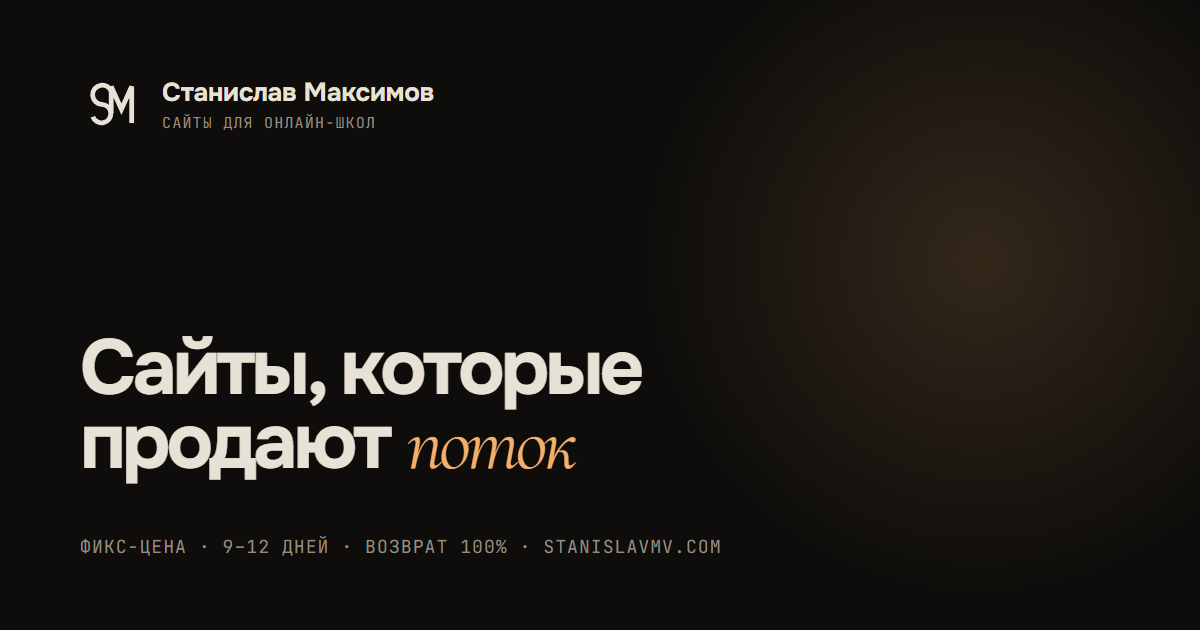
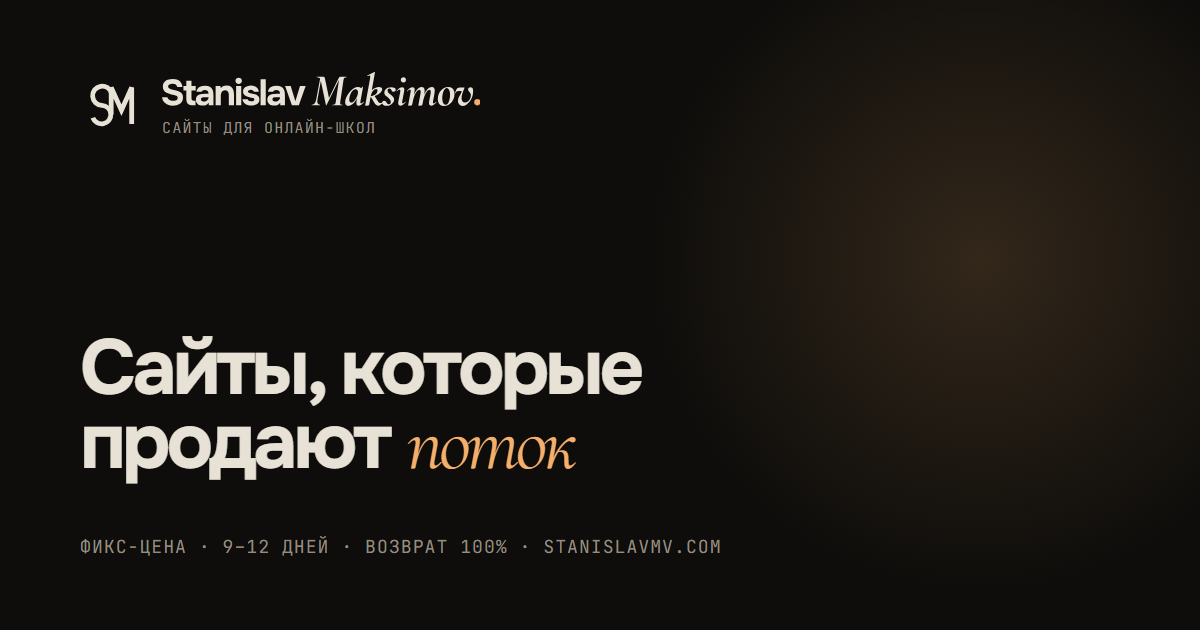
Логотип-надпись Stanislav Maksimov в шапке и OG-обложке
Гротеск Onest + курсив Cormorant + янтарная точка, буквы переведены в контуры.

Changed region(s): [[0.1233, 0.1206, 0.4008, 0.2111], [0.0617, 0.181, 0.0925, 0.2111]]

diff --git a/index.html b/index.html
@@ -87,7 +87,9 @@
     .logo{display:flex;align-items:center;gap:12px;font-weight:600;letter-spacing:-.01em;white-space:nowrap}
     .logo__mark{width:36px;height:36px;flex:none;color:var(--ink);transition:color .3s}
     .logo:hover .logo__mark{color:var(--acc)}
-    @media (max-width:400px){.logo{font-size:15px;gap:10px}.logo__mark{width:32px;height:32px}.burger{padding:0 14px}.burger>span{display:none}}
+    .logo__word{height:19px;width:auto;flex:none;color:var(--ink);display:block}
+    .logo__dot{fill:var(--acc)}
+    @media (max-width:400px){.logo{gap:10px}.logo__mark{width:32px;height:32px}.logo__word{height:15px}.burger{padding:0 14px}.burger>span{display:none}}
     .nav{display:flex;gap:30px}
     .nav a{position:relative;font-size:15px;color:var(--mute);transition:color .3s}
     .nav a::after{content:"";position:absolute;left:0;right:0;bottom:-4px;height:1px;background:var(--acc);transform:scaleX(0);transform-origin:right;transition:transform .5s var(--ease)}
@@ -445,7 +447,7 @@
     <div class="wrap hdr__row">
       <a href="#top" class="logo" aria-label="Станислав Максимов — на главную">
         <svg class="logo__mark" viewBox="0 0 100 100" aria-hidden="true"><g fill="none" stroke="currentColor" stroke-width="7.5" stroke-linecap="butt" stroke-linejoin="miter" stroke-miterlimit="4" transform="translate(1.25 1)"><path d="M47.9 30.4A15 15 0 1 0 33 49.5A14.5 14.5 0 1 1 18.8 68.9"/><path d="M47.5 64V21.5L63.5 57L79.5 21.5V78.5"/></g></svg>
-        <span>Станислав Максимов</span>
+        <svg class="logo__word" viewBox="4.5 -90.44 863.5 92.18" aria-hidden="true"><path fill="currentColor" d="M34.20 0.80L34.20 0.80Q26.80 0.80 20.45-1.50Q14.10-3.80 9.85-8.80Q5.60-13.80 4.50-21.70L4.50-21.70L19.10-21.70Q20-18.30 22.40-16.25Q24.80-14.20 28.15-13.30Q31.50-12.40 35.20-12.40L35.20-12.40Q38-12.40 40.70-13.10Q43.40-13.80 45.15-15.50Q46.90-17.20 46.90-20.10L46.90-20.10Q46.90-22.30 45.95-23.70Q45-25.10 43.25-25.95Q41.50-26.80 39-27.50L39-27.50Q36.90-28.10 34.65-28.50Q32.40-28.90 30.25-29.50Q28.10-30.10 26.10-30.90L26.10-30.90Q22.30-31.90 18.80-33.35Q15.30-34.80 12.60-37.05Q9.90-39.30 8.35-42.70Q6.80-46.10 6.80-50.90L6.80-50.90Q6.80-56.10 8.55-59.70Q10.30-63.30 13.25-65.65Q16.20-68 19.85-69.30Q23.50-70.60 27.20-71.10Q30.90-71.60 34.20-71.60L34.20-71.60Q41.10-71.60 46.60-69.20Q52.10-66.80 55.60-62Q59.10-57.20 59.60-49.90L59.60-49.90L45.70-49.90Q45.30-52.90 43.50-54.80Q41.70-56.70 38.95-57.60Q36.20-58.50 32.80-58.50L32.80-58.50Q30.60-58.50 28.50-58.10Q26.40-57.70 24.75-56.85Q23.10-56 22.15-54.60Q21.20-53.20 21.20-51.20L21.20-51.20Q21.20-49.20 22.30-47.75Q23.40-46.30 25.55-45.25Q27.70-44.20 30.60-43.30L30.60-43.30Q33.60-42.30 36.90-41.70Q40.20-41.10 43.20-40.10L43.20-40.10Q47-39.10 50.30-37.75Q53.60-36.40 56.10-34.35Q58.60-32.30 60-29.15Q61.40-26 61.40-21.40L61.40-21.40Q61.40-15.30 59.15-11.05Q56.90-6.80 53.05-4.20Q49.20-1.60 44.30-0.40Q39.40 0.80 34.20 0.80ZM95.40 0L89.50 0Q82.90 0 78.70-1.60Q74.50-3.20 72.45-7.05Q70.40-10.90 70.40-17.60L70.40-17.60L70.40-40.20L62.60-40.20L62.60-52.70L70.40-52.70L70.40-66.80L84.40-66.80L84.40-52.70L95.90-52.70L95.90-40.20L84.40-40.20L84.40-19.60Q84.40-16.30 85.60-14.40Q86.80-12.50 91-12.50L91-12.50L95.40-12.50L95.40 0ZM114.80 0.70L114.80 0.70Q111.20 0.70 107.85-0.25Q104.50-1.20 101.90-3.20Q99.30-5.20 97.80-8.20Q96.30-11.20 96.30-15.20L96.30-15.20Q96.30-20.60 98.50-23.85Q100.70-27.10 104.40-28.80Q108.10-30.50 112.95-31.10Q117.80-31.70 123-31.70L123-31.70L130.60-31.70Q130.60-34.60 129.55-36.85Q128.50-39.10 126.40-40.35Q124.30-41.60 121-41.60L121-41.60Q118.90-41.60 117-41.05Q115.10-40.50 113.80-39.50Q112.50-38.50 112.10-36.90L112.10-36.90L97.90-36.90Q98.50-41.30 100.70-44.45Q102.90-47.60 106.15-49.60Q109.40-51.60 113.35-52.55Q117.30-53.50 121.50-53.50L121.50-53.50Q129.20-53.50 134.15-50.60Q139.10-47.70 141.55-42.10Q144-36.50 144-28.40L144-28.40L144 0L131.40 0L131.20-6.80Q128.70-3.30 125.55-1.70Q122.40-0.10 119.50 0.30Q116.60 0.70 114.80 0.70ZM118-10.40L118-10.40Q121.50-10.40 124.40-11.80Q127.30-13.20 129-15.60Q130.70-18 130.70-21L130.70-21L130.70-22.30L119-22.30Q117.50-22.30 115.95-22.05Q114.40-21.80 113.10-21.20Q111.80-20.60 111-19.50Q110.20-18.40 110.20-16.40L110.20-16.40Q110.20-14.40 111.25-13.05Q112.30-11.70 114.10-11.05Q115.90-10.40 118-10.40ZM163.90 0L149.90 0L149.90-52.70L163-52.70L163.70-46.60Q165.90-49.30 168.75-50.85Q171.60-52.40 174.55-53Q177.50-53.60 179.90-53.60L179.90-53.60Q187.50-53.60 191.75-50.30Q196-47 197.85-41.45Q199.70-35.90 199.70-29.10L199.70-29.10L199.70 0L185.70 0L185.70-27.30Q185.70-29.70 185.30-32.10Q184.90-34.50 183.85-36.50Q182.80-38.50 180.90-39.70Q179-40.90 175.90-40.90L175.90-40.90Q171.90-40.90 169.20-38.90Q166.50-36.90 165.20-33.50Q163.90-30.10 163.90-26L163.90-26L163.90 0ZM219.40 0L205.40 0L205.40-52.70L219.40-52.70L219.40 0ZM212.40-58L212.40-58Q208.50-58 206.10-60.35Q203.70-62.70 203.70-66.40L203.70-66.40Q203.70-70.30 206.20-72.70Q208.70-75.10 212.50-75.10L212.50-75.10Q216-75.10 218.55-72.75Q221.10-70.40 221.10-66.50L221.10-66.50Q221.10-62.70 218.65-60.35Q216.20-58 212.40-58ZM246.10 0.70L246.10 0.70Q242.40 0.70 238.50-0.10Q234.60-0.90 231.30-2.85Q228-4.80 225.70-8.15Q223.40-11.50 222.70-16.50L222.70-16.50L236.90-16.50Q237.50-14.70 239.05-13.40Q240.60-12.10 242.65-11.50Q244.70-10.90 246.80-10.90L246.80-10.90Q248.20-10.90 249.60-11.10Q251-11.30 252.20-11.90Q253.40-12.50 254.10-13.45Q254.80-14.40 254.80-15.90L254.80-15.90Q254.80-17.40 253.95-18.30Q253.10-19.20 251.60-19.75Q250.10-20.30 248-20.70L248-20.70Q245.90-21.20 243.60-21.60Q241.30-22 239.10-22.50L239.10-22.50Q235.30-23.50 231.90-25.15Q228.50-26.80 226.35-29.80Q224.20-32.80 224.20-37.70L224.20-37.70Q224.20-42 226.05-45.05Q227.90-48.10 231-50Q234.10-51.90 237.90-52.75Q241.70-53.60 245.70-53.60L245.70-53.60Q251.10-53.60 255.70-51.85Q260.30-50.10 263.30-46.45Q266.30-42.80 267-37L267-37L253.60-37Q253.20-39.20 250.90-40.60Q248.60-42 245.20-42L245.20-42Q244-42 242.65-41.75Q241.30-41.50 240.20-41Q239.10-40.50 238.40-39.65Q237.70-38.80 237.70-37.40L237.70-37.40Q237.70-36.30 238.35-35.40Q239-34.50 240.30-33.85Q241.60-33.20 243.40-32.80L243.40-32.80Q246.60-32.10 250.10-31.45Q253.60-30.80 256.30-30L256.30-30Q259.60-29.20 262.35-27.65Q265.10-26.10 266.85-23.35Q268.60-20.60 268.60-16.20L268.60-16.20Q268.60-11.20 266.60-7.95Q264.60-4.70 261.25-2.80Q257.90-0.90 253.95-0.10Q250 0.70 246.10 0.70ZM285.80 0L271.80 0L271.80-70.80L285.80-70.80L285.80 0ZM308.60 0.70L308.60 0.70Q305.00 0.70 301.65-0.25Q298.30-1.20 295.70-3.20Q293.10-5.20 291.60-8.20Q290.10-11.20 290.10-15.20L290.10-15.20Q290.10-20.60 292.30-23.85Q294.50-27.10 298.20-28.80Q301.90-30.50 306.75-31.10Q311.60-31.70 316.80-31.70L316.80-31.70L324.40-31.70Q324.40-34.60 323.35-36.85Q322.30-39.10 320.20-40.35Q318.10-41.60 314.80-41.60L314.80-41.60Q312.70-41.60 310.80-41.05Q308.90-40.50 307.60-39.50Q306.30-38.50 305.90-36.90L305.90-36.90L291.70-36.90Q292.30-41.30 294.50-44.45Q296.70-47.60 299.95-49.60Q303.20-51.60 307.15-52.55Q311.10-53.50 315.30-53.50L315.30-53.50Q323.00-53.50 327.95-50.60Q332.90-47.70 335.35-42.10Q337.80-36.50 337.80-28.40L337.80-28.40L337.80 0L325.20 0L325.00-6.80Q322.50-3.30 319.35-1.70Q316.20-0.10 313.30 0.30Q310.40 0.70 308.60 0.70ZM311.80-10.40L311.80-10.40Q315.30-10.40 318.20-11.80Q321.10-13.20 322.80-15.60Q324.50-18 324.50-21L324.50-21L324.50-22.30L312.80-22.30Q311.30-22.30 309.75-22.05Q308.20-21.80 306.90-21.20Q305.60-20.60 304.80-19.50Q304.00-18.40 304.00-16.40L304.00-16.40Q304.00-14.40 305.05-13.05Q306.10-11.70 307.90-11.05Q309.70-10.40 311.80-10.40ZM375.50 0L356.70 0L338.20-52.70L353.50-52.70L366.10-11.40L378.60-52.70L394.00-52.70L375.50 0Z"/><path fill="currentColor" d="M466.44 0L466.44 0Q466.07 0 466.07-0.75Q466.07-1.50 466.44-1.50L466.44-1.50Q469.93-1.50 471.68-2.12Q473.42-2.74 474.29-4.61Q475.17-6.48 475.67-10.09L475.67-10.09L484.89-72.27L487.88-76.38L450.74-0.87Q450.49-0.37 449.81-0.44Q449.12-0.50 448.87-1.00L448.87-1.00L434.92-67.54Q434.05-71.52 432.18-73.39Q430.31-75.26 428.19-75.82Q426.07-76.38 424.20-76.38L424.20-76.38Q423.83-76.38 423.83-77.13Q423.83-77.88 424.20-77.88L424.20-77.88Q425.70-77.88 427.69-77.76Q429.68-77.63 432.18-77.63L432.18-77.63Q435.67-77.63 438.47-77.76Q441.27-77.88 442.64-77.88L442.64-77.88Q444.01-77.88 444.82-76.63Q445.63-75.39 446.51-71.40L446.51-71.40L458.10-16.45L450.00-4.86L484.01-74.76Q485.51-77.88 488.62-77.88L488.62-77.88Q489.75-77.88 492.24-77.76Q494.73-77.63 496.72-77.63L496.72-77.63Q499.47-77.63 501.27-77.76Q503.08-77.88 504.95-77.88L504.95-77.88Q505.20-77.88 505.20-77.13Q505.20-76.38 504.95-76.38L504.95-76.38Q501.21-76.38 499.22-74.83Q497.22-73.27 496.47-68.04L496.47-68.04L487.88-10.09Q487.13-4.74 488.31-3.12Q489.50-1.50 494.11-1.50L494.11-1.50Q494.48-1.50 494.48-0.75Q494.48 0 494.11 0L494.11 0Q491.37 0 487.81-0.12Q484.26-0.25 480.28-0.25L480.28-0.25Q476.29-0.25 472.80-0.12Q469.31 0 466.44 0ZM410.62 0L410.62 0Q410.25 0 410.25-0.75Q410.25-1.50 410.62-1.50L410.62-1.50Q414.86-1.50 418.10-5.36Q421.34-9.22 422.58-15.83L422.58-15.83L433.67-75.01L436.66-74.76L426.07-16.20Q424.83-9.35 426.57-5.42Q428.31-1.50 432.55-1.50L432.55-1.50Q432.92-1.50 432.92-0.75Q432.92 0 432.55 0L432.55 0Q430.31 0 427.50-0.12Q424.70-0.25 421.34-0.25L421.34-0.25Q418.47-0.25 415.79-0.12Q413.11 0 410.62 0ZM509.31 1.62L509.31 1.62Q505.07 1.62 502.64-1.43Q500.21-4.49 501.21-11.34L501.21-11.34Q502.08-17.69 505.51-24.36Q508.94-31.03 513.98-36.82Q519.03-42.62 524.70-46.17Q530.37-49.72 535.60-49.72L535.60-49.72Q538.09-49.72 540.71-48.78Q543.33-47.85 545.26-45.79Q547.19-43.74 547.44-40.37L547.44-40.37L539.96-44.49Q542.08-44.73 544.39-46.48Q546.69-48.22 548.31-50.72L548.31-50.72Q548.56-51.09 549.25-50.84Q549.93-50.59 549.81-50.34L549.81-50.34L542.58-11.09Q541.46-5.23 543.95-5.23L543.95-5.23Q545.20-5.23 546.94-6.42Q548.69-7.60 550.68-9.59L550.68-9.59Q551.05-9.97 551.55-9.47Q552.05-8.97 551.68-8.60L551.68-8.60Q547.81-3.99 544.39-1.43Q540.96 1.12 537.72 1.12L537.72 1.12Q533.73 1.12 532.30-1.81Q530.87-4.74 531.86-11.09L531.86-11.09L534.98-28.54L537.60-30.65Q534.60-20.44 529.87-13.21Q525.13-5.98 519.78-2.18Q514.42 1.62 509.31 1.62ZM517.28-7.48L517.28-7.48Q520.27-7.48 523.27-9.84Q526.26-12.21 528.81-15.95Q531.37-19.69 533.17-23.86Q534.98-28.04 535.60-31.53L535.60-31.53Q536.60-37.13 534.85-40.37Q533.11-43.61 529.37-43.61L529.37-43.61Q525.88-43.61 522.52-40.75Q519.15-37.88 516.54-32.90Q513.92-27.91 512.80-21.43L512.80-21.43Q511.55-13.58 513.05-10.53Q514.54-7.48 517.28-7.48ZM559.28 1.00L559.28 1.00Q556.91 1.00 556.04 0.69Q555.17 0.37 555.17 0L555.17 0Q555.17-0.50 555.85-3.24Q556.54-5.98 557.03-9.22L557.03-9.22L568.75-73.39Q569.74-79.38 568.19-80.62Q566.63-81.87 561.52-79.38L561.52-79.38Q561.02-79.25 560.77-80.00Q560.52-80.75 561.02-80.87L561.02-80.87L580.34-90.34Q580.83-90.59 581.40-90.22Q581.96-89.84 581.83-89.34L581.83-89.34L570.49-25.54L566.26-1.50Q565.63 1.00 559.28 1.00ZM591.30 1.12L591.30 1.12Q588.06 1.12 585.63-0.69Q583.20-2.49 580.21-7.23L580.21-7.23L572.98-19.19Q571.74-21.43 570.68-21.87Q569.62-22.30 567.13-21.56L567.13-21.56L580.21-26.67L588.93-12.71Q591.55-8.47 593.30-7.29Q595.04-6.11 596.66-6.11L596.66-6.11Q597.91-6.11 599.65-6.92Q601.39-7.73 603.39-9.35L603.39-9.35Q603.89-9.84 604.39-9.28Q604.88-8.72 604.39-8.35L604.39-8.35Q596.16 1.12 591.30 1.12ZM567.13-21.56L567.13-21.56L567.13-23.80Q574.35-25.30 579.03-27.35Q583.70-29.41 586.01-32.21Q588.31-35.01 588.56-38.75L588.56-38.75Q588.81-41.37 588.00-42.87Q587.19-44.36 585.07-44.36L585.07-44.36Q580.09-44.36 576.10-39.19Q572.11-34.02 570.49-25.54L570.49-25.54L564.76-30.28Q567.75-35.76 572.30-40.12Q576.85-44.49 582.27-47.10Q587.69-49.72 593.05-49.72L593.05-49.72Q597.03-49.72 598.84-48.47Q600.65-47.23 601.15-45.48Q601.64-43.74 601.39-42.24L601.39-42.24Q600.77-38.25 596.54-34.20Q592.30-30.16 584.88-26.85Q577.47-23.55 567.13-21.56ZM614.10 1.37L614.10 1.37Q608.50 1.37 604.63-1.25Q600.77-3.86 601.27-7.60L601.27-7.60Q601.64-10.09 603.26-11.40Q604.88-12.71 606.88-12.71L606.88-12.71Q609.37-12.71 610.74-11.21Q612.11-9.72 613.23-7.79Q614.35-5.86 615.85-4.36Q617.34-2.87 620.09-2.87L620.09-2.87Q622.33-2.87 623.33-4.11Q624.32-5.36 624.70-7.85L624.70-7.85Q625.19-11.84 623.39-14.64Q621.58-17.45 618.65-19.75Q615.72-22.06 612.86-24.42Q609.99-26.79 608.37-29.72Q606.75-32.65 607.50-36.76L607.50-36.76Q608.12-39.75 610.62-42.68Q613.11-45.61 617.10-47.48Q621.08-49.34 626.07-49.34L626.07-49.34Q631.92-49.34 635.29-47.35Q638.65-45.36 638.28-41.87L638.28-41.87Q637.90-39.38 636.16-38.07Q634.42-36.76 632.67-36.76L632.67-36.76Q629.68-36.76 628.43-38.13Q627.19-39.50 626.50-41.31Q625.82-43.11 624.70-44.49Q623.57-45.86 620.71-45.86L620.71-45.86Q618.47-45.86 617.47-44.61Q616.47-43.36 616.22-41.99L616.22-41.99Q615.60-38.50 617.41-35.76Q619.21-33.02 622.20-30.72Q625.19-28.41 628.06-25.92Q630.93-23.43 632.67-20.44Q634.42-17.45 633.67-13.46L633.67-13.46Q633.17-10.34 630.55-6.85Q627.94-3.36 623.76-1.00Q619.59 1.37 614.10 1.37ZM650.74 1.12L650.74 1.12Q646.63 1.12 645.38-1.99Q644.14-5.11 645.38-11.09L645.38-11.09L650.49-37.01Q651.74-43.11 648.62-43.11L648.62-43.11Q647.38-43.11 645.57-41.87Q643.76-40.62 641.52-38.13L641.52-38.13Q641.02-37.63 640.52-38.19Q640.02-38.75 640.40-39.25L640.40-39.25Q644.88-44.61 648.50-46.91Q652.11-49.22 655.60-49.22L655.60-49.22Q659.59-49.22 660.83-46.42Q662.08-43.61 661.08-38.50L661.08-38.50L655.85-11.09Q655.23-7.60 655.85-6.42Q656.47-5.23 657.47-5.23L657.47-5.23Q658.84-5.23 660.46-6.48Q662.08-7.73 664.07-9.59L664.07-9.59Q664.57-10.09 665.07-9.59Q665.57-9.10 665.07-8.60L665.07-8.60Q661.21-3.99 657.84-1.43Q654.48 1.12 650.74 1.12ZM659.09-62.18L659.09-62.18Q655.85-62.18 653.92-64.05Q651.99-65.92 651.99-69.41L651.99-69.41Q651.99-72.40 653.92-74.27Q655.85-76.14 659.09-76.14L659.09-76.14Q662.33-76.14 664.13-74.27Q665.94-72.40 665.94-69.41L665.94-69.41Q665.94-62.18 659.09-62.18ZM734.35 1.12L734.35 1.12Q730.11 1.12 728.99-1.99Q727.87-5.11 728.87-11.09L728.87-11.09L732.61-30.90Q733.60-36.88 732.86-39.75Q732.11-42.62 729.62-42.62L729.62-42.62Q726.63-42.62 723.01-38.07Q719.40-33.52 716.03-24.42Q712.67-15.33 710.43-1.50L710.43-1.50L708.18-1.62Q710.68-16.82 714.91-27.60Q719.15-38.38 724.63-44.05Q730.11-49.72 736.10-49.72L736.10-49.72Q740.96-49.72 743.01-45.73Q745.07-41.74 743.45-33.27L743.45-33.27L739.46-11.09Q738.84-7.60 739.40-6.42Q739.96-5.23 741.08-5.23L741.08-5.23Q742.45-5.23 744.01-6.48Q745.57-7.73 747.56-9.59L747.56-9.59Q748.06-10.09 748.56-9.59Q749.06-9.10 748.56-8.60L748.56-8.60Q744.69-3.99 741.33-1.43Q737.97 1.12 734.35 1.12ZM675.79 1.00L675.79 1.00Q673.42 1.00 672.55 0.69Q671.67 0.37 671.67 0L671.67 0Q671.67-0.50 672.36-3.24Q673.04-5.98 673.54-9.22L673.54-9.22L678.65-37.01Q679.77-43.11 676.78-43.11L676.78-43.11Q675.54-43.11 673.73-41.87Q671.92-40.62 669.56-38.13L669.56-38.13Q669.18-37.63 668.68-38.19Q668.18-38.75 668.56-39.25L668.56-39.25Q673.04-44.61 676.66-46.91Q680.27-49.22 683.76-49.22L683.76-49.22Q687.75-49.22 688.99-46.42Q690.24-43.61 689.24-38.50L689.24-38.50L682.76-1.50Q682.14 1.00 675.79 1.00ZM703.45 1.00L703.45 1.00Q701.08 1.00 700.21 0.69Q699.34 0.37 699.34 0L699.34 0Q699.34-0.50 700.02-3.24Q700.71-5.98 701.21-9.22L701.21-9.22L705.32-31.15Q706.44-37.26 705.44-39.94Q704.45-42.62 701.95-42.62L701.95-42.62Q698.71-42.62 695.04-37.76Q691.36-32.90 688.12-23.74Q684.88-14.58 682.76-1.50L682.76-1.50L680.52-1.62Q682.89-16.45 687.06-27.23Q691.24-38.01 696.78-43.86Q702.33-49.72 708.56-49.72L708.56-49.72Q713.29-49.72 715.47-45.86Q717.65-41.99 716.16-33.52L716.16-33.52L710.43-1.50Q710.05 1.00 703.45 1.00ZM769.12 1.74L769.12 1.74Q762.26 1.74 758.21-1.87Q754.16-5.48 752.92-11.34Q751.67-17.20 752.92-24.05L752.92-24.05Q754.41-31.65 758.40-37.44Q762.39-43.24 768.12-46.48Q773.85-49.72 780.46-49.72L780.46-49.72Q787.43-49.72 791.55-46.29Q795.66-42.87 797.03-37.07Q798.40-31.28 796.90-24.05L796.90-24.05Q795.28-15.58 790.86-9.78Q786.44-3.99 780.71-1.12Q774.97 1.74 769.12 1.74ZM773.35-1.37L773.35-1.37Q777.34-1.37 780.27-6.04Q783.20-10.72 784.57-18.57L784.57-18.57Q785.57-24.17 785.50-29.22Q785.44-34.27 784.32-38.25Q783.20-42.24 781.20-44.49Q779.21-46.73 776.34-46.73L776.34-46.73Q772.86-46.73 769.86-42.49Q766.87-38.25 765.25-29.41L765.25-29.41Q764.26-23.80 764.38-18.69Q764.51-13.58 765.57-9.72Q766.62-5.86 768.62-3.61Q770.61-1.37 773.35-1.37ZM819.83 1.62L819.83 1.62Q815.97 1.62 812.98-0.44Q809.99-2.49 808.37-5.86Q806.75-9.22 806.87-13.21L806.87-13.21Q807.25-18.32 810.30-23.74Q813.35-29.16 816.09-35.14L816.09-35.14Q816.97-36.88 817.03-37.76Q817.09-38.63 815.72-38.63L815.72-38.63L809.74-38.63Q806.75-38.63 804.94-38.07Q803.14-37.51 802.08-36.32Q801.02-35.14 800.39-33.27L800.39-33.27Q800.14-32.77 799.40-32.90Q798.65-33.02 798.90-33.64L798.90-33.64Q800.77-39.00 802.33-42.18Q803.88-45.36 806.13-46.79Q808.37-48.22 811.98-48.22L811.98-48.22L823.57-48.22Q824.57-48.22 824.82-47.97Q825.07-47.72 824.57-46.73L824.57-46.73Q822.20-41.12 819.89-34.58Q817.59-28.04 816.97-23.55L816.97-23.55Q815.85-16.32 818.52-12.15Q821.20-7.97 826.06-7.97L826.06-7.97Q829.55-7.97 832.85-10.03Q836.16-12.09 838.65-15.89Q841.14-19.69 841.76-24.80L841.76-24.80Q842.14-27.79 841.70-29.78Q841.27-31.78 840.27-33.46Q839.27-35.14 837.65-36.88L837.65-36.88Q836.41-38.25 835.41-39.75Q834.41-41.25 834.41-43.24L834.41-43.24Q834.41-46.48 836.47-47.91Q838.52-49.34 841.27-49.34L841.27-49.34Q843.88-49.34 845.50-48.04Q847.12-46.73 847.74-43.30Q848.37-39.87 847.74-33.64L847.74-33.64Q847.00-26.54 844.32-20.12Q841.64-13.71 837.59-8.85Q833.54-3.99 828.93-1.18Q824.32 1.62 819.83 1.62Z"/><circle cx="859.45" cy="-8.55" r="8.55" class="logo__dot"/></svg>
       </a>
       <nav class="nav" aria-label="Основная навигация">
         <a href="#cases">Кейсы</a>
